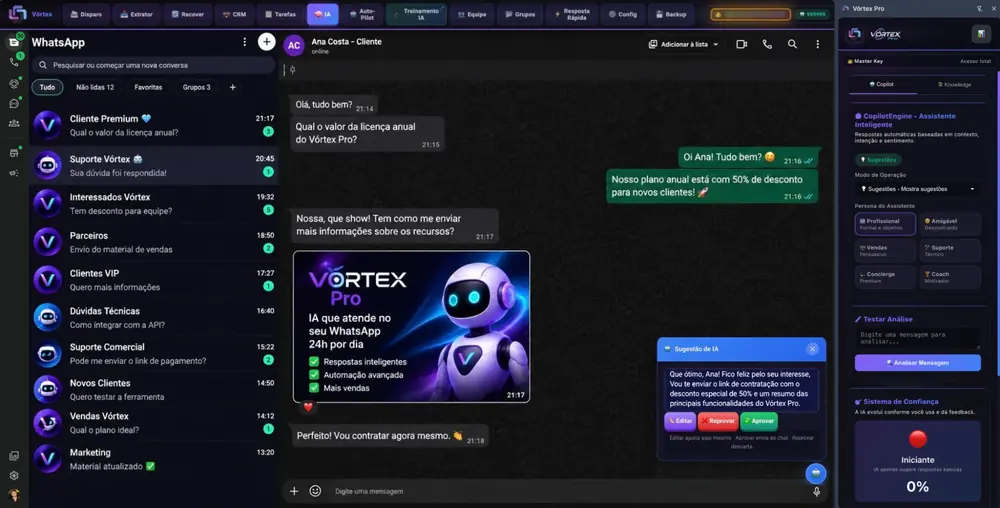
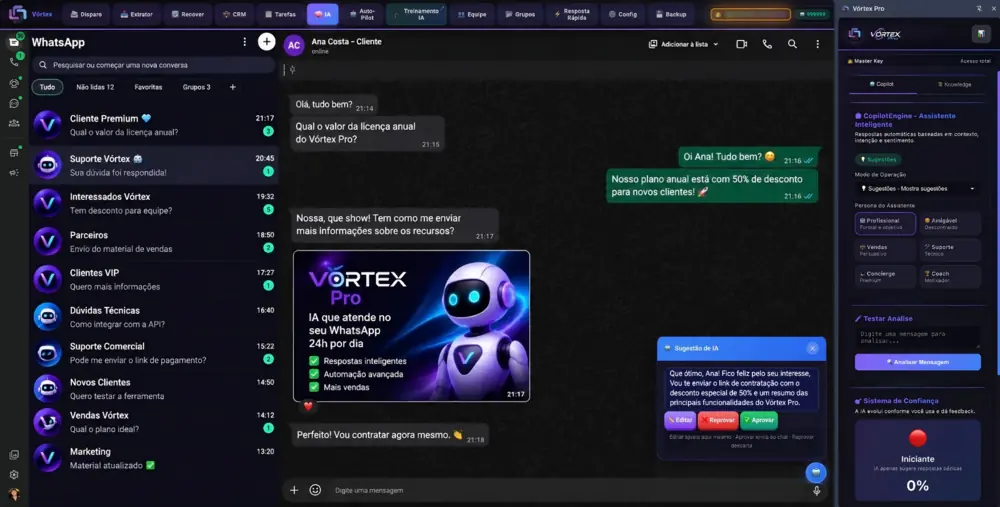
captura da extensao: usar o arquivo de 2048px que o dono enviou
O dono subiu assets/imagem.png (2048x1039) para substituir a captura
anterior, que era menor e aparecia borrada no painel aberto.

- git mv imagem.png -> tela-extensao.png (o nome que o otimizador e o
  index.html esperam);
- otimizar-imagens.js ganha a entrada tela-extensao.png com as larguras
  2048/1600/1000 em qualidade 82. Saida: 126 KB, 79 KB e 38 KB (o PNG
  de origem tem 3,2 MB, que nunca e servido);
- o <img> passa a declarar as tres larguras no srcset e as dimensoes
  reais 2048x1039, em vez de 1600x812. As dimensoes erradas nao
  deformavam a imagem (object-fit cuida disso), mas reservavam a caixa
  errada antes do carregamento.

Verificado: otimizar-imagens.js --conferir diz "Todas as versoes WebP
existem e estao atualizadas"; audit/harness/notebook-rolagem.js segue
com a razao da moldura igual a razao da imagem (nada cortado).

Claude-Session: https://claude.ai/code/session_01UaK2wwrkHjUdcNXT59WQRo

diff --git a/whatshybrid-backend/public/index.html b/whatshybrid-backend/public/index.html
@@ -2014,9 +2014,9 @@
         <div class="mb-foto">
           <img class="mb-tela"
                src="assets/tela-extensao-1600w.webp"
-               srcset="assets/tela-extensao-1000w.webp 1000w, assets/tela-extensao-1600w.webp 1600w"
-               sizes="(max-width: 860px) 90vw, min(70vw, 1000px)"
-               width="1600" height="812"
+               srcset="assets/tela-extensao-1000w.webp 1000w, assets/tela-extensao-1600w.webp 1600w, assets/tela-extensao-2048w.webp 2048w"
+               sizes="(max-width: 860px) 92vw, 94vw"
+               width="2048" height="1039"
                loading="lazy" decoding="async"
                alt="WhatsApp Web com o painel do Vórtex Pro aberto à direita, mostrando uma sugestão de resposta pronta para aprovar.">
         </div>

diff --git a/whatshybrid-backend/scripts/otimizar-imagens.js b/whatshybrid-backend/scripts/otimizar-imagens.js
@@ -45,6 +45,12 @@ const ALVOS = [
   // A marca aparece em TODAS as páginas, exibida em 89x34 — e o arquivo
   // tinha 1105x422 e 235 KB. 240w cobre até 2,7x de densidade de tela.
   { arquivo: 'vortex-pro-wordmark.png', larguras: [240], qualidade: 90 },
+  /* A captura da extensao dentro do WhatsApp Web. O painel final da
+     secao #mostra chega a ~1361 CSS px numa janela de 1440, entao a
+     versao de 2048 cobre 1,50x de densidade. Para 2x cheio seriam
+     precisos 2722 px de origem; o arquivo que o dono enviou tem 2048.
+     As de 1600 e 1000 servem telas comuns e o celular. */
+  { arquivo: 'tela-extensao.png', larguras: [2048, 1600, 1000], qualidade: 82 },
 ];
 
 function kb(p) { return Math.round(fs.statSync(p).size / 1024); }
